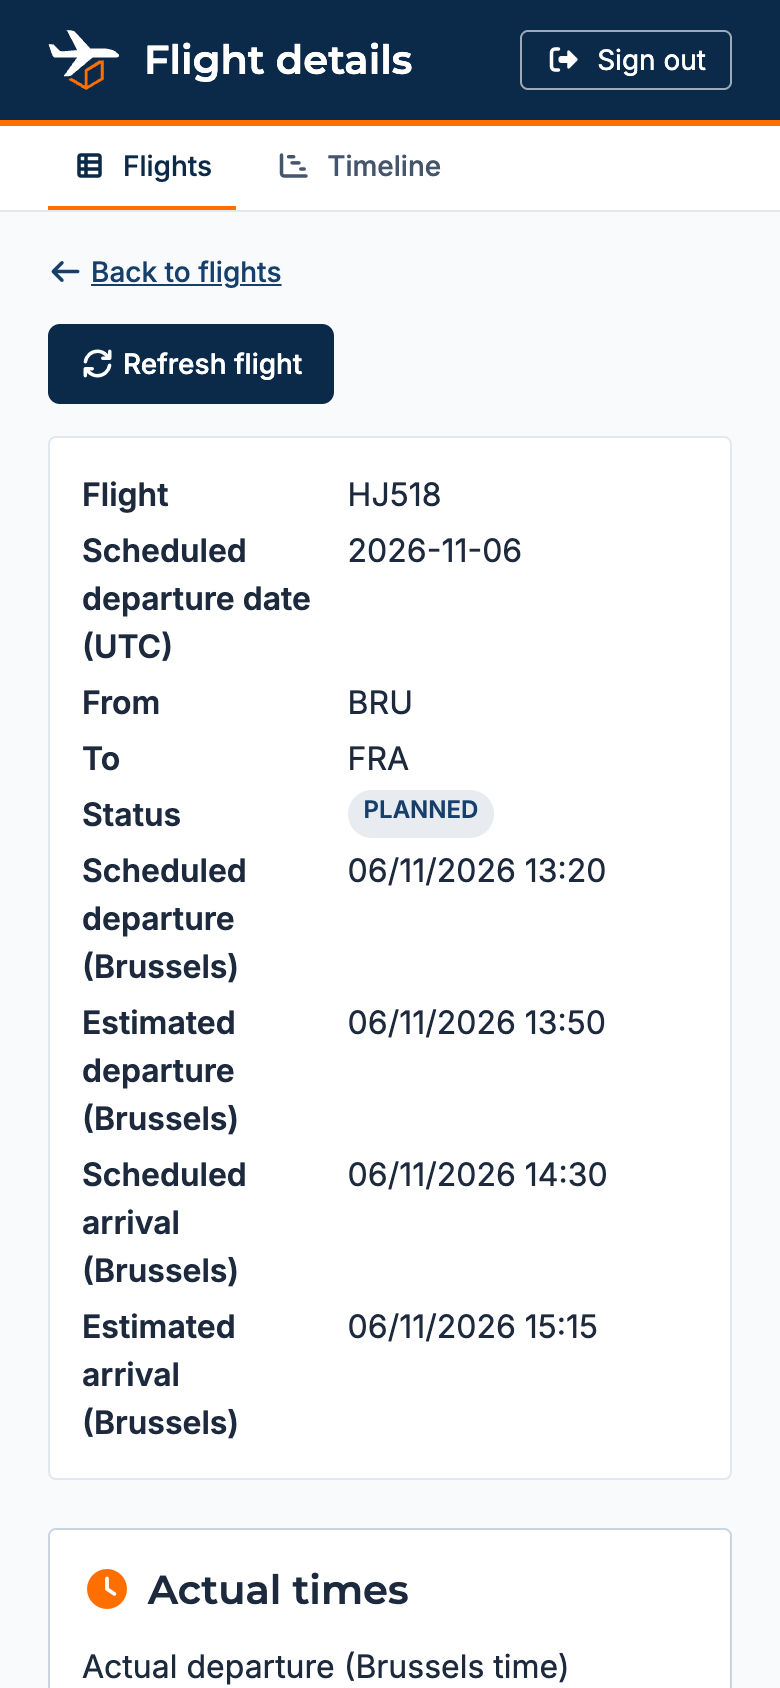
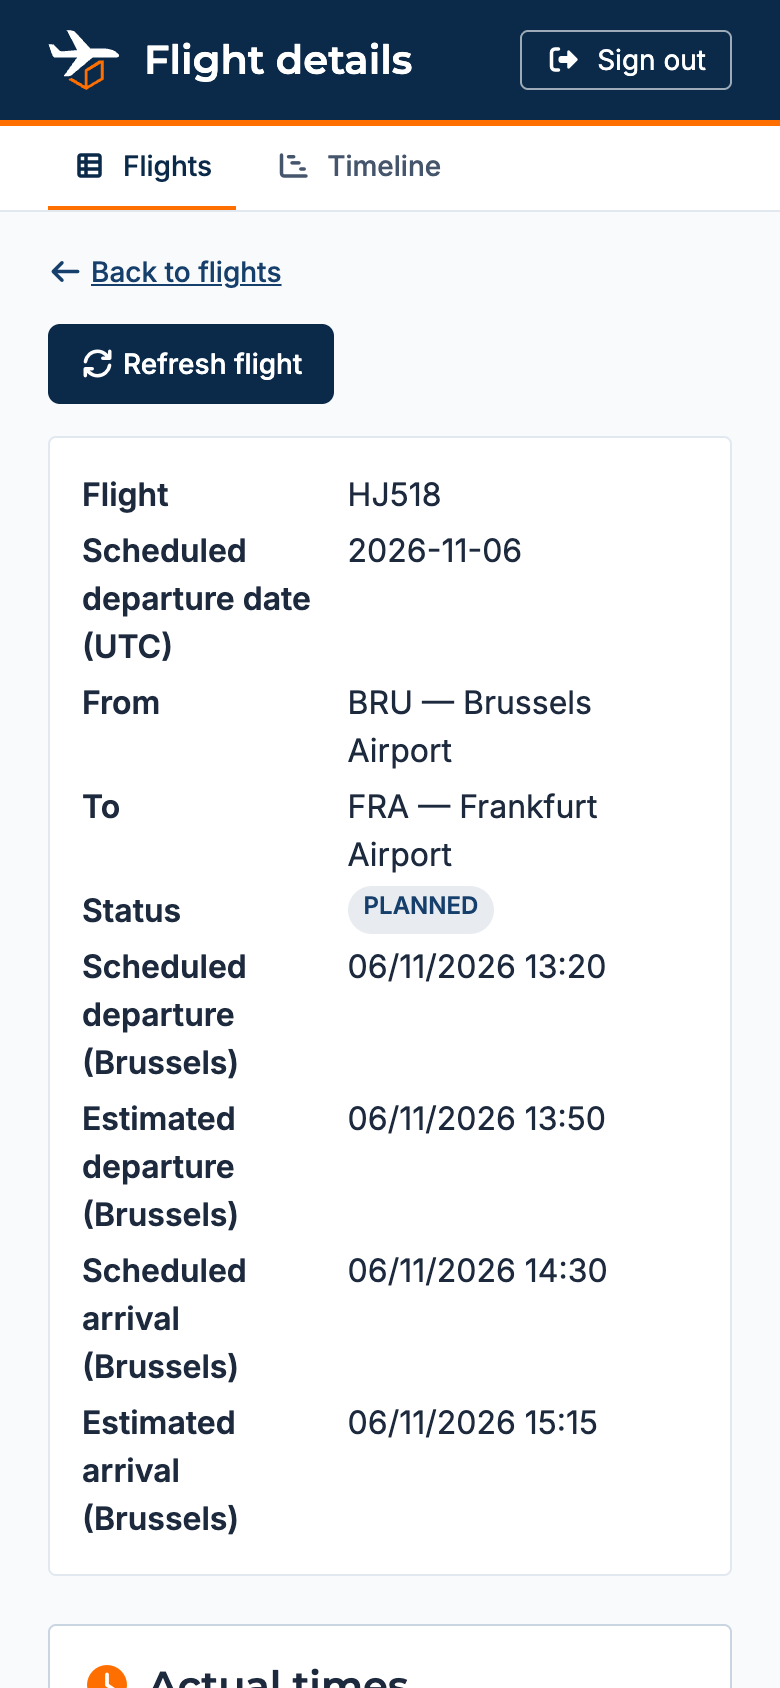
Show airport names on the flight details page (#11)

diff --git a/flight/flight-frontend/src/ts/presenter/flightDetailsPresenter.ts b/flight/flight-frontend/src/ts/presenter/flightDetailsPresenter.ts
@@ -1,7 +1,9 @@
 import type { Delay } from '../domain/Delay';
+import type { Airport } from '../domain/Airport';
 import type { DelayReason } from '../domain/DelayReason';
 import type { Flight, FlightKey, ReplanFlightRequest } from '../domain/Flight';
 import { hasRole } from '../infrastructure/auth';
+import { getAirports } from '../infrastructure/airportRest';
 import { getDelayReasons } from '../infrastructure/delayReasonRest';
 import {
     addDepartureDelay,
@@ -54,6 +56,7 @@ const historyLines = document.querySelector<HTMLUListElement>('#history-lines')!
 let flightKey: FlightKey;
 let currentFlight: Flight | null = null;
 let delayReasons: DelayReason[] = [];
+let airports: Airport[] = [];
 let delayBeingEdited: Delay | null = null;
 let editingDeparture = false;
 let isBusy = false;
@@ -146,11 +149,16 @@ function displayActualTimeForms(flight: Flight): void {
     actualArrivalInput.value = now;
 }
 
+function airportText(code: string): string {
+    const airport = airports.find(airport => airport.code === code);
+    return airport ? `${code} — ${airport.name}` : code;
+}
+
 function displayFlightDetails(flight: Flight): void {
     document.querySelector<HTMLElement>('#flight-number')!.textContent = flight.flightNumber;
     document.querySelector<HTMLElement>('#flight-date')!.textContent = flight.scheduledDepartureDate;
-    document.querySelector<HTMLElement>('#flight-from')!.textContent = flight.departureAirportCode;
-    document.querySelector<HTMLElement>('#flight-to')!.textContent = flight.arrivalAirportCode;
+    document.querySelector<HTMLElement>('#flight-from')!.textContent = airportText(flight.departureAirportCode);
+    document.querySelector<HTMLElement>('#flight-to')!.textContent = airportText(flight.arrivalAirportCode);
     const status = document.querySelector<HTMLElement>('#flight-status')!;
     status.textContent = flight.status;
     status.dataset.status = flight.status;
@@ -547,6 +555,11 @@ async function initialize(): Promise<void> {
         flightKey = { flightNumber, scheduledDepartureDate, departureAirportCode };
         document.querySelector<HTMLAnchorElement>('#back-to-flights')!.href = `../index.html?${new URLSearchParams({ date: scheduledDepartureDate })}`;
         pageStatus.textContent = 'Loading…';
+        try {
+            airports = await getAirports();
+        } catch {
+            // the page still works with only the airport codes
+        }
         const flight = await refreshFlight();
         try {
             delayReasons = await getDelayReasons();

diff --git a/flight/flight-frontend/src/ts/infrastructure/airportRest.ts b/flight/flight-frontend/src/ts/infrastructure/airportRest.ts
@@ -1,0 +1,7 @@
+import type { Airport } from '../domain/Airport';
+import { request } from './restUtils';
+
+export async function getAirports(): Promise<Airport[]> {
+    const response = await request('/api/airports');
+    return response.json();
+}

diff --git a/flight/flight-frontend/src/ts/domain/Airport.ts b/flight/flight-frontend/src/ts/domain/Airport.ts
@@ -1,0 +1,4 @@
+export type Airport = {
+    code: string;
+    name: string;
+};

diff --git a/flight/flight-service/src/main/java/be/kdg/airfreight/flight/infrastructure/persistence/DbAirportRepository.java b/flight/flight-service/src/main/java/be/kdg/airfreight/flight/infrastructure/persistence/DbAirportRepository.java
@@ -1,0 +1,22 @@
+package be.kdg.airfreight.flight.infrastructure.persistence;
+
+import be.kdg.airfreight.flight.domain.airport.Airport;
+import be.kdg.airfreight.flight.domain.airport.AirportRepository;
+import be.kdg.airfreight.flight.infrastructure.persistence.jpa.JpaAirport;
+import be.kdg.airfreight.flight.infrastructure.persistence.jpa.JpaAirportRepository;
+import java.util.List;
+import org.springframework.stereotype.Repository;
+
+@Repository
+class DbAirportRepository implements AirportRepository {
+    private final JpaAirportRepository airports;
+
+    DbAirportRepository(JpaAirportRepository airports) {
+        this.airports = airports;
+    }
+
+    @Override
+    public List<Airport> findAll() {
+        return airports.findAllByOrderByCodeAsc().stream().map(JpaAirport::toDomain).toList();
+    }
+}

diff --git a/flight/flight-service/src/main/java/be/kdg/airfreight/flight/api/airport/AirportController.java b/flight/flight-service/src/main/java/be/kdg/airfreight/flight/api/airport/AirportController.java
@@ -1,0 +1,22 @@
+package be.kdg.airfreight.flight.api.airport;
+
+import be.kdg.airfreight.flight.application.AirportQueryService;
+import java.util.List;
+import org.springframework.web.bind.annotation.GetMapping;
+import org.springframework.web.bind.annotation.RequestMapping;
+import org.springframework.web.bind.annotation.RestController;
+
+@RestController
+@RequestMapping("/api/airports")
+public class AirportController {
+    private final AirportQueryService airports;
+
+    public AirportController(AirportQueryService airports) {
+        this.airports = airports;
+    }
+
+    @GetMapping
+    public List<AirportResponse> findAll() {
+        return airports.findAll().stream().map(AirportResponse::from).toList();
+    }
+}

diff --git a/flight/flight-service/src/main/java/be/kdg/airfreight/flight/application/AirportQueryService.java b/flight/flight-service/src/main/java/be/kdg/airfreight/flight/application/AirportQueryService.java
@@ -1,0 +1,21 @@
+package be.kdg.airfreight.flight.application;
+
+import be.kdg.airfreight.flight.domain.airport.Airport;
+import be.kdg.airfreight.flight.domain.airport.AirportRepository;
+import java.util.List;
+import org.springframework.stereotype.Service;
+import org.springframework.transaction.annotation.Transactional;
+
+@Service
+public class AirportQueryService {
+    private final AirportRepository airports;
+
+    public AirportQueryService(AirportRepository airports) {
+        this.airports = airports;
+    }
+
+    @Transactional(readOnly = true)
+    public List<Airport> findAll() {
+        return airports.findAll();
+    }
+}

diff --git a/flight/flight-service/src/main/java/be/kdg/airfreight/flight/infrastructure/persistence/jpa/JpaAirport.java b/flight/flight-service/src/main/java/be/kdg/airfreight/flight/infrastructure/persistence/jpa/JpaAirport.java
@@ -1,0 +1,24 @@
+package be.kdg.airfreight.flight.infrastructure.persistence.jpa;
+
+import be.kdg.airfreight.flight.domain.airport.Airport;
+import jakarta.persistence.Column;
+import jakarta.persistence.Entity;
+import jakarta.persistence.Id;
+import jakarta.persistence.Table;
+
+@Entity
+@Table(name = "airports")
+public class JpaAirport {
+    @Id
+    @Column(length = 3)
+    private String code;
+
+    @Column(nullable = false, length = 255)
+    private String name;
+
+    protected JpaAirport() {}
+
+    public Airport toDomain() {
+        return new Airport(code, name);
+    }
+}

diff --git a/flight/flight-service/src/main/java/be/kdg/airfreight/flight/domain/airport/Airport.java b/flight/flight-service/src/main/java/be/kdg/airfreight/flight/domain/airport/Airport.java
@@ -1,0 +1,16 @@
+package be.kdg.airfreight.flight.domain.airport;
+
+public record Airport(String code, String name) {
+    public Airport {
+        code = requireText(code, "airport code");
+        name = requireText(name, "airport name");
+    }
+
+    // airports only come from our own table so a broken row is a server error
+    private static String requireText(String value, String label) {
+        if (value == null || value.isBlank()) {
+            throw new IllegalStateException(label + " must not be blank");
+        }
+        return value.trim();
+    }
+}

diff --git a/flight/flight-service/src/main/java/be/kdg/airfreight/flight/api/airport/AirportResponse.java b/flight/flight-service/src/main/java/be/kdg/airfreight/flight/api/airport/AirportResponse.java
@@ -1,0 +1,9 @@
+package be.kdg.airfreight.flight.api.airport;
+
+import be.kdg.airfreight.flight.domain.airport.Airport;
+
+public record AirportResponse(String code, String name) {
+    static AirportResponse from(Airport airport) {
+        return new AirportResponse(airport.code(), airport.name());
+    }
+}

diff --git a/flight/flight-service/src/main/java/be/kdg/airfreight/flight/infrastructure/persistence/jpa/JpaAirportRepository.java b/flight/flight-service/src/main/java/be/kdg/airfreight/flight/infrastructure/persistence/jpa/JpaAirportRepository.java
@@ -1,0 +1,8 @@
+package be.kdg.airfreight.flight.infrastructure.persistence.jpa;
+
+import java.util.List;
+import org.springframework.data.jpa.repository.JpaRepository;
+
+public interface JpaAirportRepository extends JpaRepository<JpaAirport, String> {
+    List<JpaAirport> findAllByOrderByCodeAsc();
+}

diff --git a/flight/flight-service/src/main/java/be/kdg/airfreight/flight/domain/airport/AirportRepository.java b/flight/flight-service/src/main/java/be/kdg/airfreight/flight/domain/airport/AirportRepository.java
@@ -1,0 +1,7 @@
+package be.kdg.airfreight.flight.domain.airport;
+
+import java.util.List;
+
+public interface AirportRepository {
+    List<Airport> findAll();
+}

diff --git a/README.md b/README.md
@@ -138,6 +138,7 @@ Every Flight and Cargo API request needs a bearer token. Times are UTC. In the p
 | Flight | GET | `/api/flights?date=2026-10-19` (UTC departure day), `/api/flights/timeline?date=2026-10-19` (Brussels day) | any planner |
 | Flight | GET | `/api/flights/{flight}` | any planner |
 | Flight | GET | `/api/delay-reasons` | any planner |
+| Flight | GET | `/api/airports` | any planner |
 | Flight | POST | `/api/flights/{flight}/departure-delays`, `/api/flights/{flight}/arrival-delays` | flight planner |
 | Flight | PATCH, DELETE | `/api/flights/{flight}/departure-delays/{delayId}`, `/api/flights/{flight}/arrival-delays/{delayId}` | flight planner |
 | Flight | POST | `/api/flights/{flight}/departure` with `{"actualDeparture": "2026-11-10T20:03:00Z"}`, `/api/flights/{flight}/arrival` with `{"actualArrival": ...}` (once; 200 with the flight, `DEPARTED` or `LANDED`) | flight planner |
